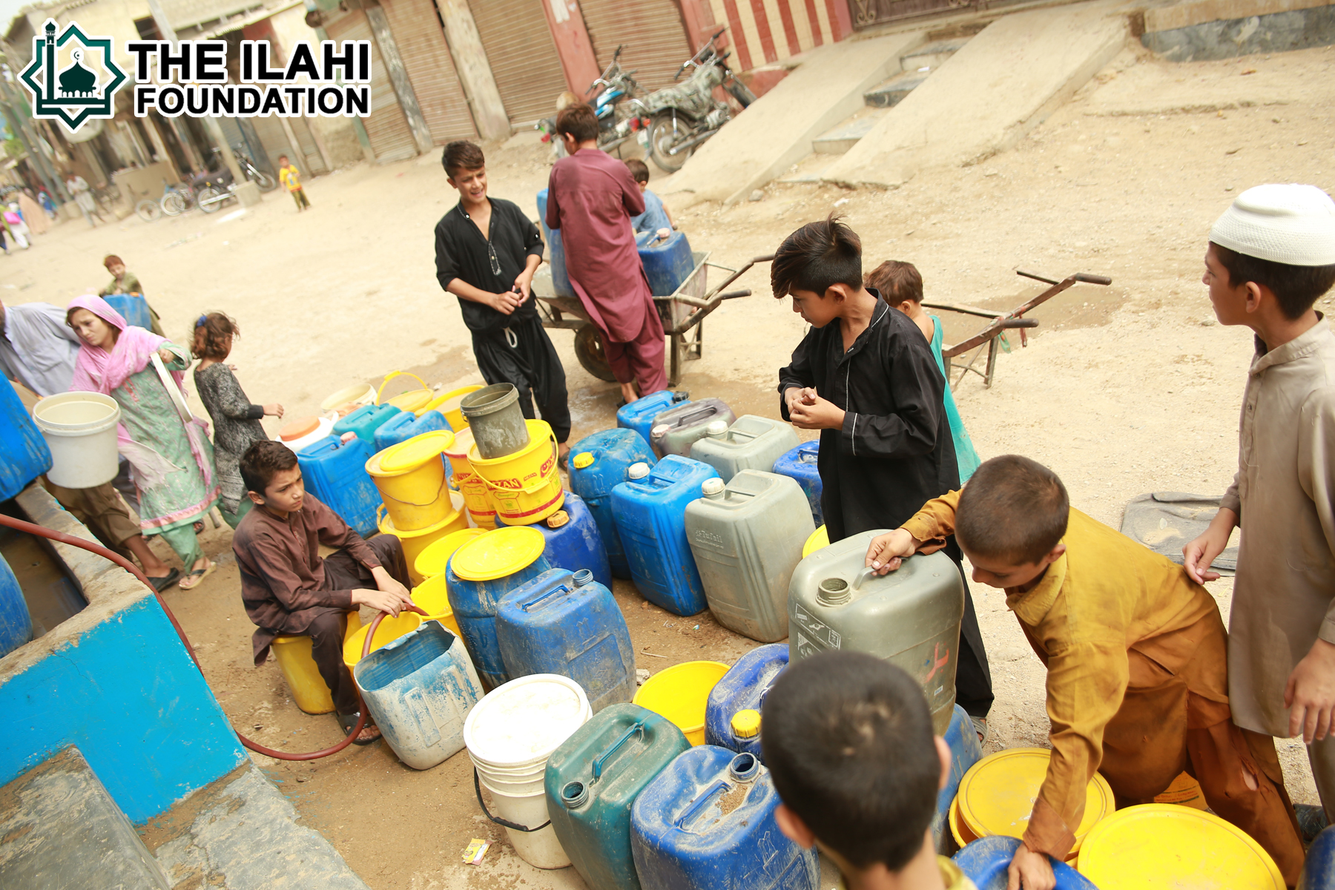
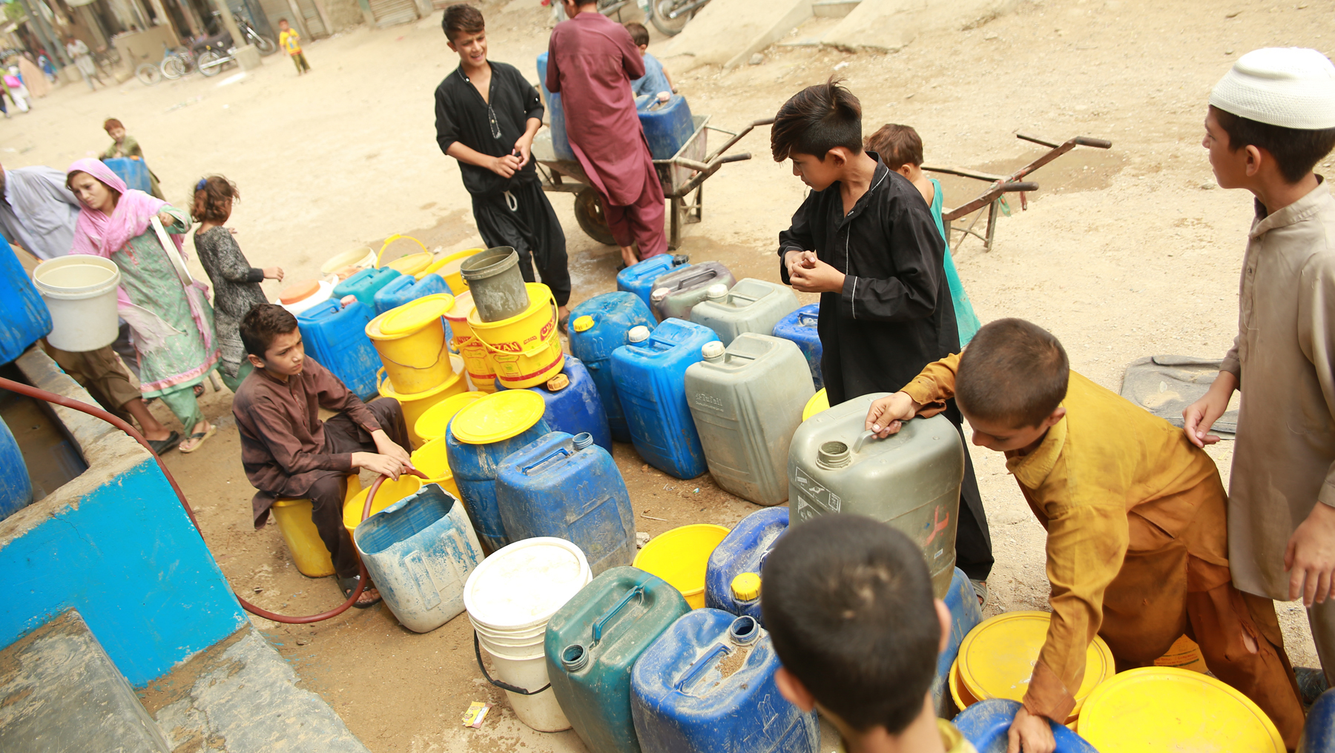
changed front page to opacity instead of blur, added volunteer page

diff --git a/volunteer.html b/volunteer.html
@@ -39,7 +39,7 @@
 
 <!--  ############################################################################################################################################################################################# -->
   <!-- Primary Meta Tags -->
-  <title>TIFC</title>
+  <title>TIFC - Volunteer</title>
   <meta name="title" content="The Ilahi Foundation of Canada">
   <meta name="description" content="Helping the needy, one city at a time">
   <meta name="keywords" content="Pakistan, Clean Water, education">
@@ -77,6 +77,7 @@
 
   <!-- Custom CSS -->
   <link rel="stylesheet" href="app.css">
+  <link rel="stylesheet" href="donate.css">
   <link rel="stylesheet" href="https://use.fontawesome.com/releases/v5.7.2/css/all.css" integrity="sha384-fnmOCqbTlWIlj8LyTjo7mOUStjsKC4pOpQbqyi7RrhN7udi9RwhKkMHpvLbHG9Sr" crossorigin="anonymous">
 
 
@@ -135,162 +136,42 @@
 
   </section>
 
-
-
-
-<section class="landing">
-
-
-  <!-- <div class="container"> -->
-    <div class="logoImg">
-      <img src="imgs/logo.png"  id="logoImgReal" alt="" width="150px">
-    </div>
-
-
-  <div class="overlay">
-    <h1 id="mainTitle">
-      The Ilahi Foundation Of Canada
-    </h1>
-  </div>
-  <div id="carouselExampleIndicators" class="carousel slide" data-ride="carousel">
-    <ol class="carousel-indicators">
-      <li data-target="#carouselExampleIndicators" data-slide-to="0" class="active"></li>
-      <li data-target="#carouselExampleIndicators" data-slide-to="1"></li>
-      <li data-target="#carouselExampleIndicators" data-slide-to="2"></li>
-    </ol>
-    <div class="carousel-inner">
-      <div class="carousel-item active">
-        <img class="d-block w-100 bckgImg full-width" src="imgs/backgroundImg.png" alt="First slide">
-      </div>
-      <div class="carousel-item">
-        <img class="d-block w-100 bckgImg full-width" src="imgs/backgroundImg2.png" alt="Second slide">
-      </div>
-      <div class="carousel-item">
-        <img class="d-block w-100 bckgImg full-width" src="imgs/backgroundImg3.png" alt="Second slide">
-      </div>
-    </div>
-    <!-- <a class="carousel-control-prev" href="#carouselExampleIndicators" role="button" data-slide="prev">
-      <span class="carousel-control-prev-icon" aria-hidden="true"></span>
-      <span class="sr-only">Previous</span>
-    </a> -->
-    <!-- <a class="carousel-control-next" href="#carouselExampleIndicators" role="button" data-slide="next">
-      <span class="carousel-control-next-icon" aria-hidden="true"></span>
-      <span class="sr-only">Next</span>
-    </a> -->
-  </div>
-</section>
-
-<section id="whatWeDo">
-  <div class="container">
-    <div class="row">
-      <h1 class="text-center pt-5">What We Do</h1>
-    </div>
-    <div class="row pt-3">
-      <div class="col-12 col-md-4 descriptionSection" data-aos="fade-zoom-in"
-     data-aos-easing="ease-in-back"
-     data-aos-delay="100"
-     data-aos-offset="0">
-        <h2>Education</h2>
-        <img src="imgs/education.png" class="clipartImages" alt="" width="70px">
-        <p>The Ilahi Foundation has partnered with ISHRAQ Schooling System (ISS) to ensure children from poor backgrounds are receiving proper education in a safe environment. ISS is a non-profit and non-commercial institution which focuses on educating children with less privileges in a competitive standard to make them excel in knowledge, character, and positive action. </p>
-
-      </div>
-      <div class="col-12 col-md-4 descriptionSection" data-aos="fade-zoom-in"
-     data-aos-easing="ease-in-back"
-     data-aos-delay="300"
-     data-aos-offset="0">
-        <h2>Food Bank</h2>
-        <img src="imgs/foodBank.jpg"  class="clipartImages" alt="" width="100px">
-        <p>TIFC is committed to help those in need of food. Our goal is to provide food and supplies to less-fortunate families across the globe. We aim to collect and provide at least $50 a month to ensure the needs of poor families.</p>
-      </div>
-      <div class="col-12 col-md-4 descriptionSection"data-aos="fade-zoom-in"
-     data-aos-easing="ease-in-back"
-     data-aos-delay="500"
-     data-aos-offset="0">
-        <h2>Social Welfare</h2>
-        <img src="imgs/socialWelfare.jpg" class="clipartImages" alt="" width="100px">
-        <p>Our recent and ongoing projects include building wells and providing clean drinking water in poor communities across the globe. TIFC has initiated a water supply system, Sabeel-e-Rehmat (SER), to ensure that clean drinking water is being provided to poor communities around the world.</p>
-      </div>
-    </div>
-  </div>
-<!-- </div> -->
-</section>
-
-
-
-
-<section class="aid-tracker">
-  <div id="first-aid-box">
-    <img src="imgs/first-aid-box.png" alt="" width="150px">
-  </div>
-
+<section class="volunteer-form">
+<h2 class="text-center pb-4">Volunteer Form</h1>
   <div class="container">
 
     <div class="row">
-      <div class="col-12 col-md-3">
-        <h2>Aid Tracker: </h2>
+      <div class="col-12 justify-content-center">
+
+    <form action="https://submit-form.com/IjE128LkYdcNLrpnRiSGs" target="_self">
+      <div class="form-group">
+        <label for="exampleFormControlInput1">Name</label>
+        <input name="name" type="name" class="form-control" id="exampleFormControlInput1" placeholder="Fulan AlFulani">
       </div>
-      <div class="col-12 col-md-3">
-        <span class="big-number" id="valueOne">2</span>
-        <br>
-        <p>Wells Built</p>
+    <div class="form-group">
+      <label for="exampleFormControlInput1">Email address</label>
+      <input name="email" type="email" class="form-control" id="exampleFormControlInput1" placeholder="name@example.com">
+    </div>
+    <div class="form-group">
+      <label for="exampleFormControlInput1">Telephone</label>
+      <input name="phoneNumber" type="tel" class="form-control" id="exampleFormControlInput1" placeholder="1-(555)-555-5555">
+    </div>
+
+    <div class="form-group">
+      <label for="exampleFormControlTextarea1">Volunteer Interests</label>
+      <textarea name="volunteerInterests" class="form-control" id="exampleFormControlTextarea1" rows="3"></textarea>
+    </div>
+    <button class="btn btn-outline-danger my-2 my-sm-0 submit-button" type="submit">Submit</button>
+
+  </form>
+
+
       </div>
-      <div class="col-12 col-md-3">
-        <span class="big-number" id="valueTwo">3</span>
-        <br>
-        <p>Schools Created</p>
-      </div>
-      <div class="col-12 col-md-3">
-        <span class="big-number" id="valueThree">35</span>
-        <br>
-        <p>Children Enrolled</p>
-      </div>
+
     </div>
-<div class="row updatedSinceRow">
-  <p>
-    Updated 10AM Today | Since Aug 2017
-  </p>
-</div>
-  </div>
-</section>
-
-
-
-<section class="why-care">
-  <div class="container">
-    <h1 class="pt-5">Why Care</h1>
-    <div class="item item--secondary" data-aos="fade-right" data-aos-anchor="#trigger-left" data-aos-anchor-placement="top-top">
-    <img src="imgs/waterInfoGraphic.png" class="animatedPictures" alt="" width="400px">
-    </div>
-
-    <div class="item item--primary" data-aos="fade-left" data-aos-anchor="#trigger-right" data-aos-anchor-placement="top-center">
-
-      <img src="imgs/pakistanMap.png" class="animatedPictures" alt="" width="400px">
-    </div>
-
-    <div class="item" id="trigger-left" data-aos="fade-up"><span>11.5% of people </span>defecate in the open.</div>
-    <div class="item" data-aos="fade-up">
-        <span>79 million people</span> lack decent toilets.
-    </div>
-    <div class="item" data-aos="fade-up"><span>45% of children</span> under the age of five are stunted.</div>
-    <div class="item" data-aos="fade-up"><span>22 million people </span> don’t have access to clean water close to home.</div>
-    <div class="item" id="trigger-right" data-aos="fade-up">
-        Pakistan is the sixth best country for improving access to decent toilets, <span>increasing coverage by 27%.</span>
-    </div>
-    <div class="item" data-aos="fade-up">Every <span>$1 invested in water and toilets </span> returns an average of $4 in increased productivity. <span class="citation">(WHO, 2012)</span></div>
-    <div class="item" data-aos="fade-up">In Pakistan, we reached over <span>77,000 people</span> with clean water, 200,000 with decent toilets and 220,000 with good hygiene between 2016 and 2017.</div>
-    <div class="item" data-aos="fade-up">Around the world up to 443 million school days are lost every year because of water-related illnesses. <span class="citation">(Human Development Report, 2006)</span></div>
-    <div class="item" data-aos="fade-up">If everyone, everywhere had clean water, the number of diarrhoeal deaths would be cut by a third. <span class="citation">(Tropical Medicine and International Health, 2014)</span></div>
-    <div class="item" data-aos="fade-up">The World Bank says promoting good hygiene is one of the most cost effective health interventions.<span class="citation">(Disease Control Priorities, third edition (volume 2), 2016)<span></div>
-    <div class="item" data-aos="fade-up"><span>98% of the richest </span>people and only 79.2% of the poorest people in Pakistan have clean water.</div>
-    <div class="item" data-aos="fade-up"><span>19,500 children</span> under five die each year from diarrhoeal related diseases</div>
   </div>
 
-
 </section>
-
-
-
 
 <footer class="justify-content-center py-2 websiteFooter">
 
@@ -311,12 +192,7 @@
       </div>
 
       <div class="col-12 col-md-2 justify-content-center align-self-center order-2 order-md-3 text-center">
-        <!-- <form class="form-inline my-2 my-lg-0" action="https://my-tifc.org/donate.html" METHOD="POST"> -->
-          <!-- <input class="form-control mr-sm-2" type="search" placeholder="$" aria-label="Search"> -->
-          <!-- <button class="btn btn-outline-danger my-2 my-sm-0 contribute-button" type="submit">Contribute</button> -->
-          <a href="https://my-tifc.org/donate.html"><button type="submit" class="btn btn-danger contribute-button">Contribute</button></a>
-        <!-- </form> -->
-
+        <a href="https://my-tifc.org/donate.html"><button type="submit" class="btn btn-danger contribute-button">Contribute</button></a>
       </div>
 
     </div>
@@ -380,6 +256,7 @@ var val3 = document.getElementById("valueOne");
   $(".example5").click(function(){ $(this).toggleClass("open"); });
 
 </script>
+
 
 <!-- AOS ANIMATE -->
 <script src="https://unpkg.com/aos@2.3.1/dist/aos.js"></script>

diff --git a/app.css b/app.css
@@ -20,8 +20,8 @@ body {
 
 .bckgImg {
   box-shadow: 0px 16px 28px 13px #151617;
-  filter: blur(8px);
-  -webkit-filter: blur(8px);
+  filter: opacity(0.5);
+  -webkit-filter: opacity(0.5);
   z-index: -100;
 }
 
@@ -46,6 +46,14 @@ body {
   border-radius: 12px;
   background: rgba(255,96,92,0.9);
   border-color: rgba(255,96,92,0.9);
+  color: white;
+  letter-spacing: 1.5px;
+
+}
+.submit-button {
+  border-radius: 12px;
+  background: rgba(4,59,53);
+  border-color: rgba(4,59,53);
   color: white;
   letter-spacing: 1.5px;
 
@@ -235,8 +243,8 @@ body {
   }
   .bckgImg {
     box-shadow: 0px 16px 28px 13px #151617;
-    filter: blur(4px);
-    -webkit-filter: blur(4px);
+    filter: opacity(0.5);
+    -webkit-filter: opacity(0.5);
     z-index: -100;
   }
 }

diff --git a/mission.html b/mission.html
@@ -131,7 +131,7 @@
           <a class="dropdown-item" href="#">Food Bank</a>
           <a class="dropdown-item" href="#">Social Welfare</a>
           <div class="dropdown-divider"></div>
-          <a class="dropdown-item" href="#">Volunteer</a>
+          <a class="dropdown-item" href="volunteer.html">Volunteer</a>
         </div>
       </li>
     </ul>
@@ -173,7 +173,7 @@
   </div>
 
   <div class="container-flex withPic py-5">
-<img src="imgs/missionPic.png" alt="mission Pic" style="width:100%;">
+    <img src="imgs/missionPic.png" alt="mission Pic" style="width:100%;">
 
 
 

diff --git a/donate.html b/donate.html
@@ -121,7 +121,7 @@
           <a class="dropdown-item" href="#">Food Bank</a>
           <a class="dropdown-item" href="#">Social Welfare</a>
           <div class="dropdown-divider"></div>
-          <a class="dropdown-item" href="#">Volunteer</a>
+          <a class="dropdown-item" href="volunteer.html">Volunteer</a>
         </div>
       </li>
     </ul>
@@ -135,7 +135,7 @@
     </div>
 
   </section>
-  
+
 <section class="donation-form">
 
   <div class="container">

diff --git a/donate.css b/donate.css
@@ -5,3 +5,24 @@
   display: flex;
   justify-content: center;
 }
+
+
+.volunteer-form {
+  padding-top: 5rem;
+  padding-bottom: 4.9rem;
+}
+.volunteer-form .container {
+  /* display: flex; */
+  justify-content: center;
+  width: 50%;
+}
+
+
+
+@media (max-width: 730px) {
+  .volunteer-form .container {
+    display: flex;
+    justify-content: center;
+    width: 100%;
+  }
+}

diff --git a/islamEdu.html b/islamEdu.html
@@ -122,7 +122,7 @@
           <a class="dropdown-item" href="#">Food Bank</a>
           <a class="dropdown-item" href="#">Social Welfare</a>
           <div class="dropdown-divider"></div>
-          <a class="dropdown-item" href="#">Volunteer</a>
+          <a class="dropdown-item" href="volunteer.html">Volunteer</a>
         </div>
       </li>
     </ul>

diff --git a/message.html b/message.html
@@ -131,7 +131,7 @@
           <a class="dropdown-item" href="#">Food Bank</a>
           <a class="dropdown-item" href="#">Social Welfare</a>
           <div class="dropdown-divider"></div>
-          <a class="dropdown-item" href="#">Volunteer</a>
+          <a class="dropdown-item" href="volunteer.html">Volunteer</a>
         </div>
       </li>
     </ul>
